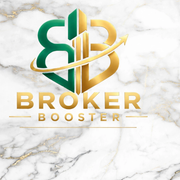
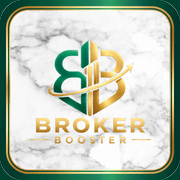
Renovar los iconos y el splash de la PWA
Separar la generación del splash de la de iconos, usar arte vertical y
horizontal sin recortes y actualizar el manifiesto y los recursos de inicio.

Generated with Codebuff 🤖

diff --git a/portal-modular/css/styles.css b/portal-modular/css/styles.css
@@ -245,15 +245,16 @@ body.theme-obsidian #main-app input, body.theme-obsidian #main-app select, body.
     position: fixed;
     inset: 0;
     z-index: 9999;
-    background: #ffffff url('../img/splash-source.webp') center / cover no-repeat;
+    /* Móvil/PWA: arte vertical; el 16:9 se recortaría a los lados. */
+    background: #f6f4ef url('../img/splash-portrait.webp?v=20261104a') center / cover no-repeat;
     overflow: hidden;
 }
 
-/* En pantallas anchas (ordenador) la imagen vertical se muestra completa y centrada,
-   sin ampliarse hasta recortarse. En móvil se mantiene el recorte a pantalla completa. */
-@media (min-width: 1100px) and (min-aspect-ratio: 1/1) and (hover: hover) and (pointer: fine) {
+/* Horizontal (escritorio/tablet): arte 16:9 a sangre, sin franjas. */
+@media (min-aspect-ratio: 1/1) {
     #splash-screen {
-        background: var(--bb-marble) url('../img/splash-source.webp') center / contain no-repeat;
+        background-image: url('../img/splash-landscape.webp?v=20261104a');
+        background-size: cover;
     }
 }
 
